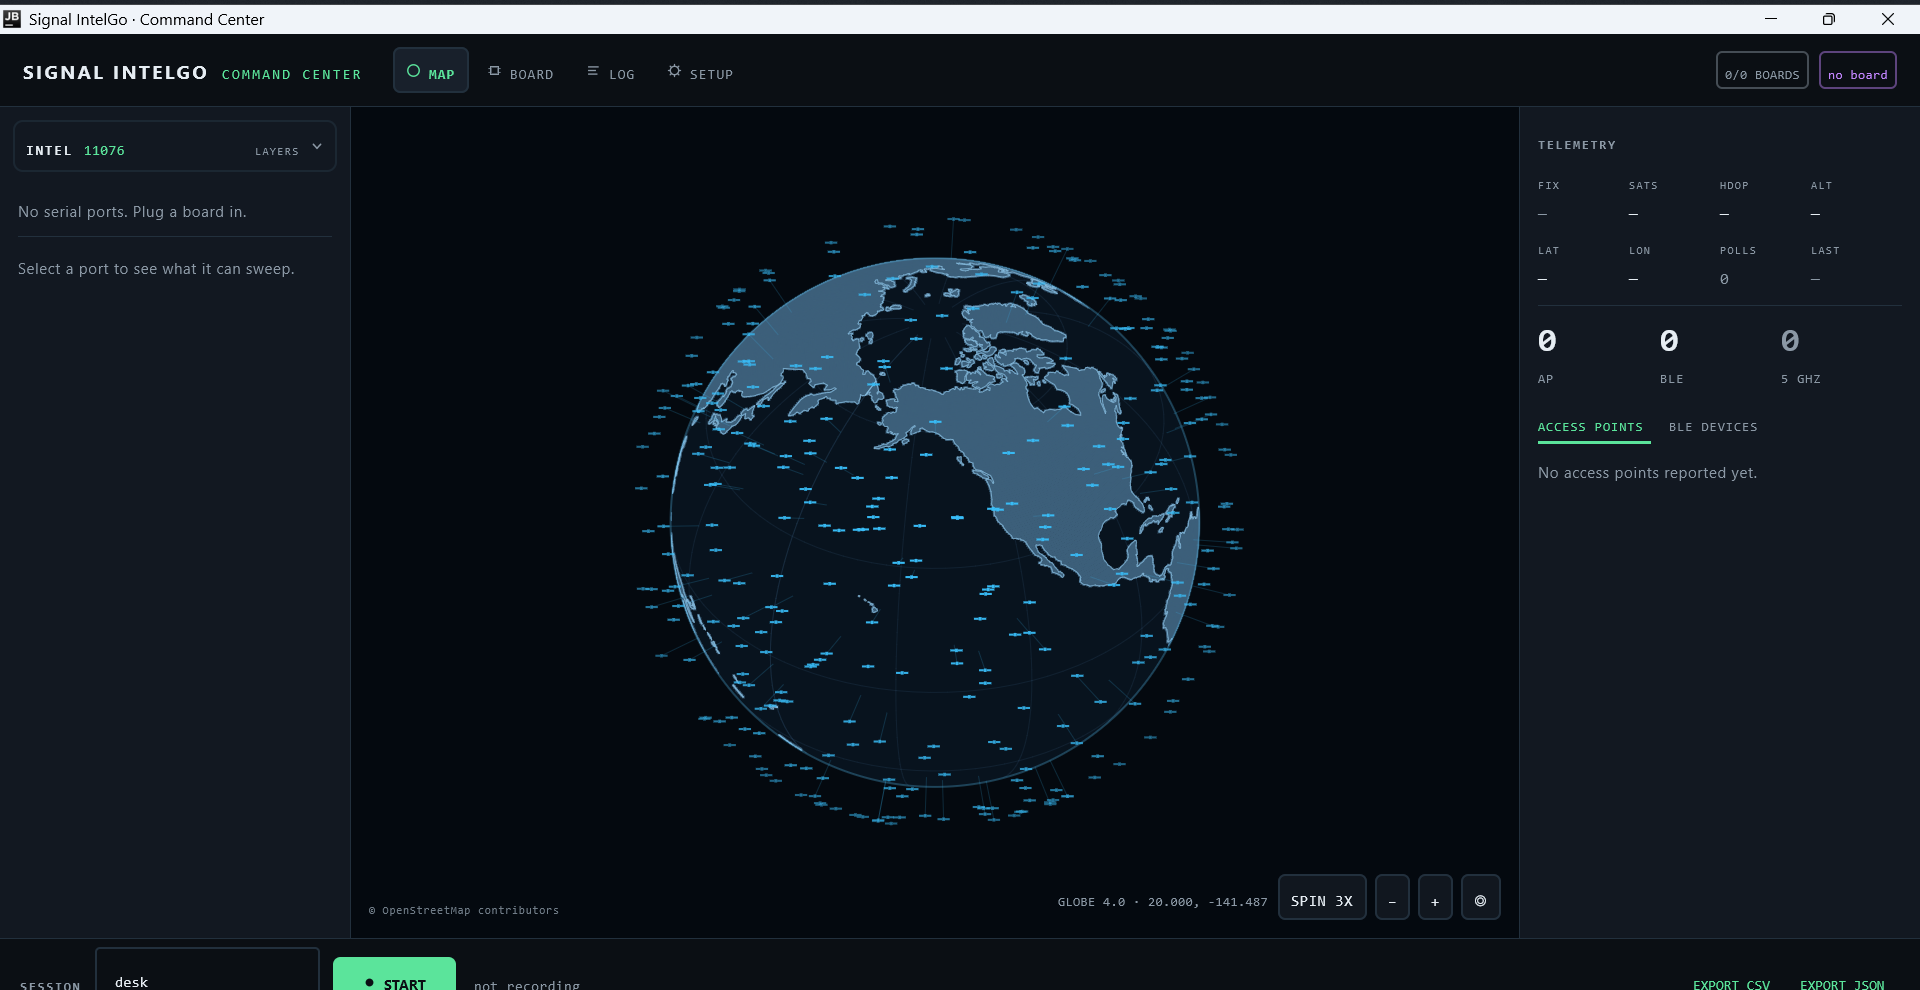
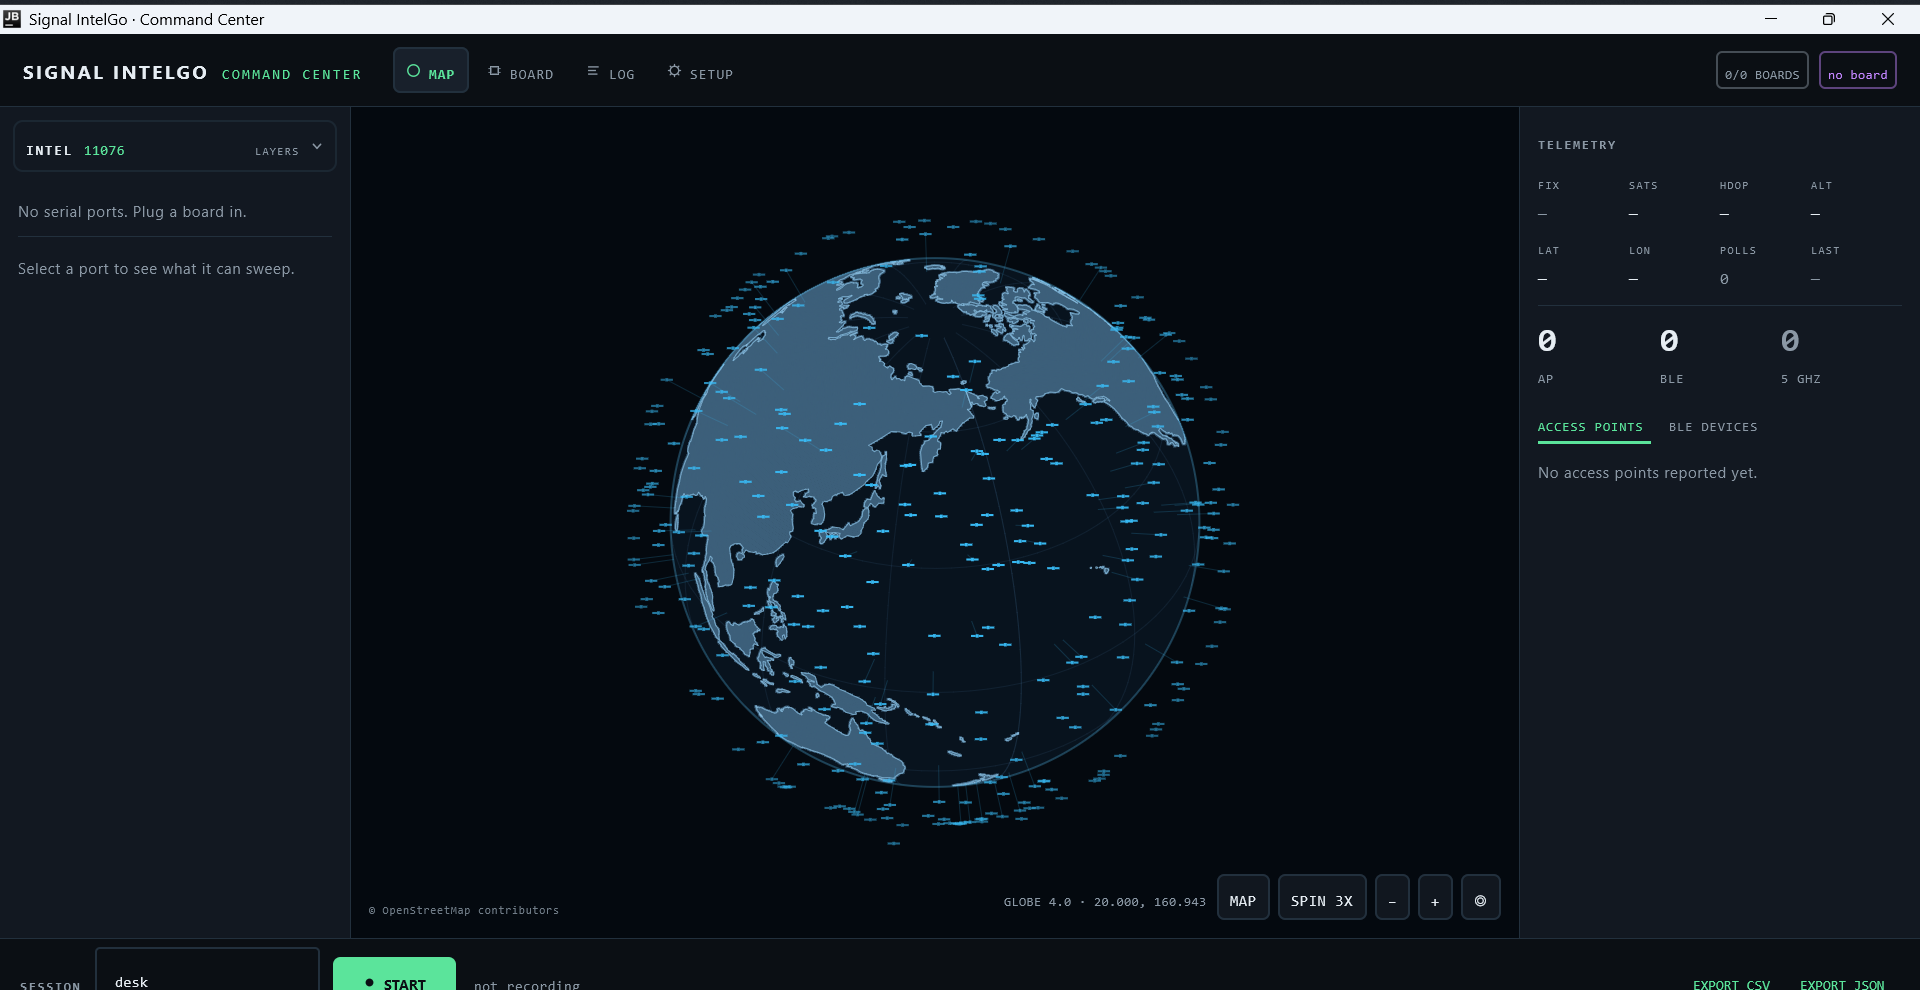
Add the globe/map toggle and draw the operator's fix as a pin.
The desk could only cross the globe-to-map hand-off by scrolling, and the fix was drawn as a small
dot that was also gated on the boards layer, so it disappeared whenever that layer was off. The pin
is the operator's own position, not a layer, and one button now jumps between the two projections.

diff --git a/desktop/src/main/java/dev/skyward/rf/desktop/ui/MapView.kt b/desktop/src/main/java/dev/skyward/rf/desktop/ui/MapView.kt
@@ -287,6 +287,12 @@ fun MapView(
                 fontFamily = Desk.mono,
             )
             Spacer(Modifier.width(8.dp))
+            // The ball and the plane are one zoom, so the toggle only has to land on the far side of
+            // the hand-off; the camera stays where the operator left it either way.
+            MapButton(if (MapMath.globeBlend(zoom) > 0.5f) "MAP" else "GLOBE") {
+                zoom = if (MapMath.globeBlend(zoom) > 0.5f) MapMath.HANDOFF + 1.0 else 4.0
+            }
+            Spacer(Modifier.width(6.dp))
             MapButton(if (spin > 0) "SPIN ${if (spin == 2) "3X" else "1X"}" else "SPIN") { onSpin() }
             Spacer(Modifier.width(6.dp))
             MapButton("−") { zoom = (zoom - 1.0).coerceIn(MapMath.MIN_ZOOM, MapMath.MAX_ZOOM) }
@@ -419,10 +425,28 @@ private fun DrawScope.drawMap(
         return pt[2] > 0.02f
     }
 
-    // ---- observer ----
-    if (layers.boards && observer != null && place(observer.lat, observer.lon, 0.0)) {
-        drawCircle(Desk.accent, radius = 3.5.dp.toPx(), center = Offset(pt[0], pt[1]))
-        drawCircle(Desk.accent.copy(alpha = 0.35f), radius = 9.dp.toPx(), center = Offset(pt[0], pt[1]), style = Stroke(1.dp.toPx()))
+    // ---- observer: the pin is the operator's own fix, so it does not belong to a layer ----
+    if (observer != null && place(observer.lat, observer.lon, 0.0)) {
+        val tip = Offset(pt[0], pt[1])
+        val headR = 5.5.dp.toPx()
+        val headY = tip.y - 11.dp.toPx()
+        // A pin, not a dot: at a glance the fix has to be distinguishable from the markers around
+        // it, and its point sits on the position while the head carries the hole.
+        val pin = Path().apply {
+            moveTo(tip.x, tip.y)
+            cubicTo(tip.x - headR * 0.9f, tip.y - headR * 1.1f, tip.x - headR, headY + headR * 0.35f, tip.x - headR, headY)
+            arcTo(Rect(tip.x - headR, headY - headR, tip.x + headR, headY + headR), 180f, 180f, false)
+            cubicTo(tip.x + headR, headY + headR * 0.35f, tip.x + headR * 0.9f, tip.y - headR * 1.1f, tip.x, tip.y)
+            close()
+        }
+        drawPath(pin, Desk.accent)
+        drawCircle(Desk.panel, radius = headR * 0.42f, center = Offset(tip.x, headY))
+        drawCircle(
+            Desk.accent.copy(alpha = 0.3f),
+            radius = 13.dp.toPx(),
+            center = tip,
+            style = Stroke(1.dp.toPx()),
+        )
     }
 
     // ---- the Wi-Fi and BLE the boards hear, fanned around the fix that heard them ----
